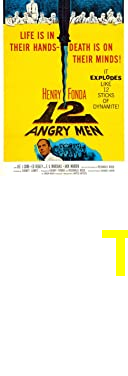
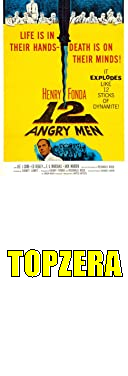
3commit aula2 desafios 2 3 e 4

Changed region(s): [[0.0625, 0.6144, 1.0, 0.7606]]

diff --git a/src/GeradoraDeFigurinhas.java b/src/GeradoraDeFigurinhas.java
@@ -1,6 +1,13 @@
+import java.awt.BasicStroke;
 import java.awt.Color;
 import java.awt.Font;
+import java.awt.FontMetrics;
 import java.awt.Graphics2D;
+import java.awt.Shape;
+import java.awt.font.FontRenderContext;
+import java.awt.font.TextLayout;
+import java.awt.geom.AffineTransform;
+import java.awt.geom.Rectangle2D;
 import java.awt.image.BufferedImage;
 import java.io.File;
 import java.io.InputStream;
@@ -28,21 +35,41 @@ public class GeradoraDeFigurinhas {
         graphics.drawImage(imagemOriginal, 0, 0, null);
         
         //configurar a fonte
-        var fonte = new Font(Font.SANS_SERIF, Font.BOLD, 64);
+        var fonte = new Font("Impact", Font.BOLD, 32);
         graphics.setColor(Color.YELLOW);
         graphics.setFont(fonte);
 
         //escrever uma frase na nova imagem
-        graphics.drawString("TOPZERA", 100, novaAltura - 100);
+        String texto = "TOPZERA";
+        FontMetrics fontMetrics = graphics.getFontMetrics();
+        Rectangle2D retangulo = fontMetrics.getStringBounds(texto, graphics);
+        int larguraTexto = (int) retangulo.getWidth();
+        int posicaoTextoX = (largura - larguraTexto) / 2;
+        int posicaoTextoY = novaAltura - 100;
+        graphics.drawString(texto, posicaoTextoX, posicaoTextoY);
+
+        FontRenderContext fontRenderContext = graphics.getFontRenderContext();
+        var textLayout = new TextLayout(texto, fonte, fontRenderContext);
+
+        Shape outline = textLayout.getOutline(null);
+        AffineTransform transform = graphics.getTransform();
+        transform.translate(posicaoTextoX, posicaoTextoY);
+        graphics.setTransform(transform);
+        var outlineStroke = new BasicStroke(largura * 0.004f);
+        graphics.setStroke(outlineStroke);
+
+        graphics.setColor(Color.BLACK);
+        graphics.draw(outline);
+        graphics.setClip(outline);
 
          //escrever a nova imagem em um arquivo
         ImageIO.write(novaImagem, "png", new File(nomeArquivo));
 
     }
 
-    public static void main(String[] args) throws Exception {
-        var geradora = new GeradoraDeFigurinhas();
-        geradora.cria();
-    }
+    //public static void main(String[] args) throws Exception {
+      //  var geradora = new GeradoraDeFigurinhas();
+        //geradora.cria();
+    //}
     
 }
